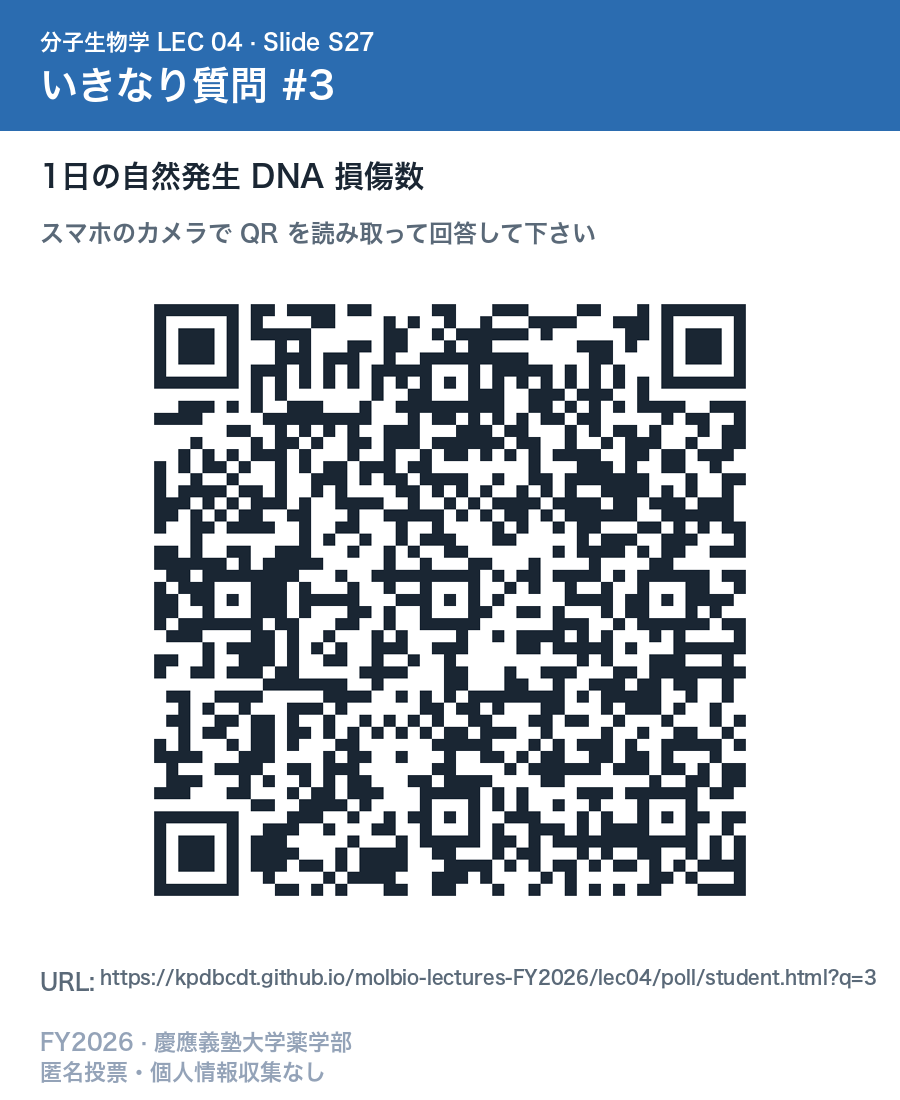
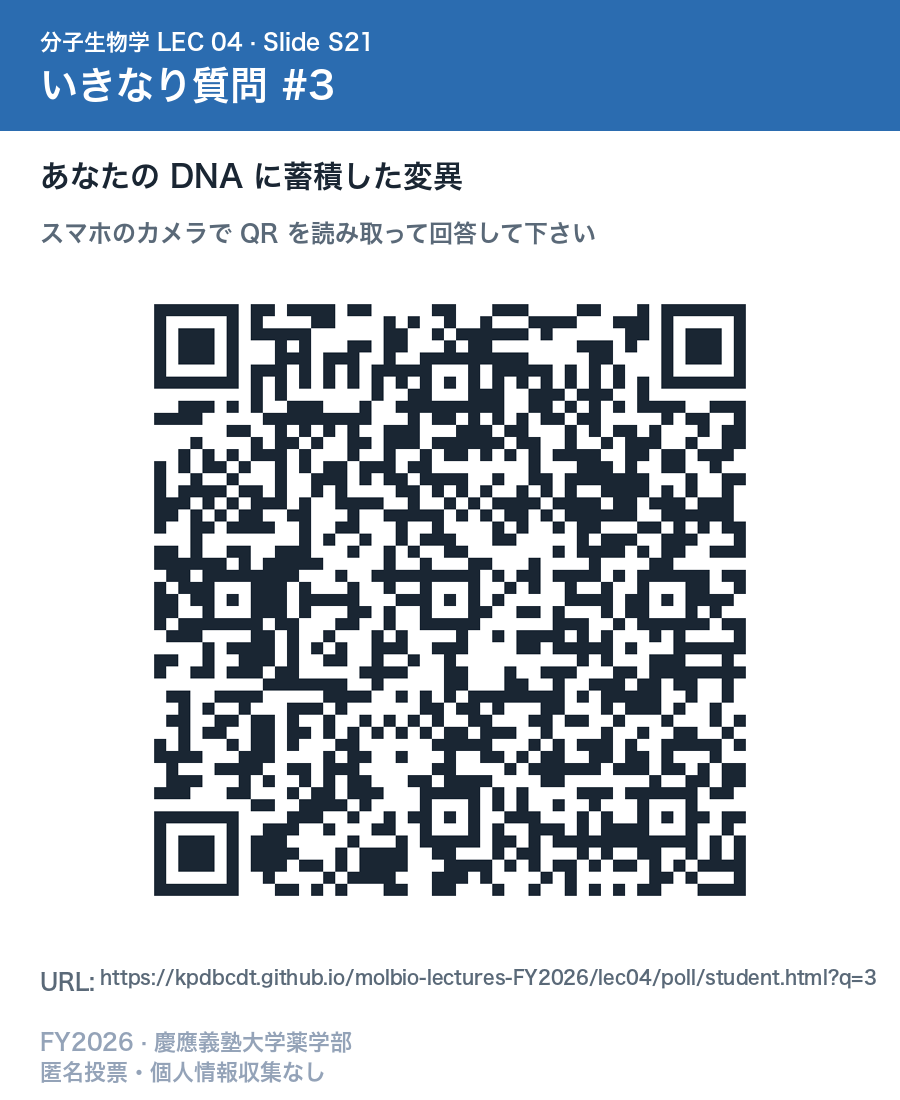
Lec04: add Q#2/Q#3 polls (大腸菌複製時間・de novo 変異) + lec03 typo fix
- poll-data.js: replace q2 (Pol III speed) with new Q#2 at S09 (大腸菌の全
  ゲノム複製時間 ~40 min, multifork replication); replace q3 with new Q#3
  at S21 (あなたの DNA に蓄積した de novo 変異 ~30-100/世代). Sources: CBN
  (Phillips & Milo) p.315-317 and p.342, BNID 107686/105813
- generate_qr.py: update QUESTIONS dict (S04/S09/S21) + new question texts
- regenerated qr_q1/q2/q3_slide.png with new slide numbers and labels
- index.html: fix Lec03→Lec04 typos in certificate hash + localStorage
  keys (lec03_quiz_state → lec04_quiz_state); enable Lec05-08 sidebar nav;
  expose 講師用投票画面 link; show retake card unconditionally

Changed region(s): [[0.0311, 0.1236, 0.5289, 0.1855]]

diff --git a/lec04/index.html b/lec04/index.html
@@ -405,15 +405,16 @@
     <li><a href="../lec02/"><span class="lec-num">Lec 02</span>化学的基盤</a></li>
     <li><a href="../lec03/"><span class="lec-num">Lec 03</span>染色体とゲノム</a></li>
     <li><a href="../lec04/" class="active"><span class="lec-num">Lec 04</span>DNA 複製・修復</a></li>
-    <li><a href="#" class="disabled"><span class="lec-num">Lec 05</span>転写<span class="soon-badge">SOON</span></a></li>
-    <li><a href="#" class="disabled"><span class="lec-num">Lec 06</span>転写調節・RNA プロセシング<span class="soon-badge">SOON</span></a></li>
-    <li><a href="#" class="disabled"><span class="lec-num">Lec 07</span>翻訳と翻訳後修飾<span class="soon-badge">SOON</span></a></li>
-    <li><a href="#" class="disabled"><span class="lec-num">Lec 08</span>組換え DNA とゲノム編集<span class="soon-badge">SOON</span></a></li>
+    <li><a href="../lec05/"><span class="lec-num">Lec 05</span>転写</a></li>
+    <li><a href="../lec06/"><span class="lec-num">Lec 06</span>転写調節・RNA プロセシング</a></li>
+    <li><a href="../lec07/"><span class="lec-num">Lec 07</span>翻訳と翻訳後修飾</a></li>
+    <li><a href="../lec08/"><span class="lec-num">Lec 08</span>組換え DNA とゲノム編集</a></li>
   </ul>
   <h3>Lec04 リソース</h3>
   <ul>
     <li><a href="#" class="disabled"><span class="lec-num">📄</span>講義スライド (PDF)<span class="soon-badge">TBD</span></a></li>
     <li><a href="#" class="disabled"><span class="lec-num">📓</span>NotebookLM<span class="soon-badge">TBD</span></a></li>
+    <li><a href="./poll/instructor.html" target="_blank"><span class="lec-num">🎙</span>講師用投票画面<span class="soon-badge">講師</span></a></li>
   </ul>
 </aside>
 
@@ -452,7 +453,9 @@
     <br>
     📘 <strong>問1-9</strong>: 基本問題 (DNA 複製・修復)<br>
     🏆 <strong>問10-12</strong>: 薬剤師国試改変 (<strong>発展・チャレンジ</strong>)</p>
-  <div class="card retake-only" style="background:#fffaf0; border-color:#e09f3e; border-width:2px; display:none;">
+
+  
+  <div class="card" style="background:#fffaf0; border-color:#e09f3e; border-width:2px;">
     <h3 style="margin-top:0; font-size:16px; color:#744210;">📋 再度試験受験者: 提出手順</h3>
     <ol style="font-size:13px; line-height:1.9; margin:6px 0;">
       <li>下の 12 問を解く (不合格なら「クイズをリセット」で再挑戦)</li>
@@ -724,7 +727,7 @@ function renderQuiz() {
       banner.className = 'challenge-banner';
       banner.innerHTML = `
         <h3>🏆 ここから国試チャレンジ問題 (発展)</h3>
-        <p>以下の問題は<strong>薬剤師国家試験の過去問</strong>を一部改変したものです。染色体異常・スプライシング治療薬・エピジェネティクス治療など、Lec03 の内容と密接に関連する臨床応用トピックです。解説を読んで「染色体・ゲノムの知識がどう医療に生きているか」を体感してください。</p>
+        <p>以下の問題は<strong>薬剤師国家試験の過去問</strong>を一部改変したものです。シスプラチン・5-FU・トポイソメラーゼ阻害薬・MMR 欠損腫瘍に対する免疫チェックポイント阻害薬など、Lec04 (DNA 複製・修復) の内容と密接に関連する臨床応用トピックです。解説を読んで「複製・修復の知識がどう医療に生きているか」を体感してください。</p>
       `;
       list.appendChild(banner);
       challengeBannerShown = true;
@@ -835,7 +838,7 @@ function showFinish() {
 }
 
 async function generateVerificationCode(studentId, score, date) {
-  const data = `${studentId}:lec03:${score}/${QUIZ.length}:${date}:molbio2026`;
+  const data = `${studentId}:lec04:${score}/${QUIZ.length}:${date}:molbio2026`;
   const encoder = new TextEncoder();
   const hashBuffer = await crypto.subtle.digest('SHA-256', encoder.encode(data));
   const hashArray = Array.from(new Uint8Array(hashBuffer));
@@ -843,7 +846,7 @@ async function generateVerificationCode(studentId, score, date) {
 }
 
 function saveQuizState() {
-  try { localStorage.setItem('lec03_quiz_state', JSON.stringify(quizState)); } catch(e) {}
+  try { localStorage.setItem('lec04_quiz_state', JSON.stringify(quizState)); } catch(e) {}
 }
 
 function loadQuizState() {
@@ -852,7 +855,7 @@ function loadQuizState() {
 }
 
 document.getElementById('quiz-reset').addEventListener('click', () => {
-  localStorage.removeItem('lec03_quiz_state');
+  localStorage.removeItem('lec04_quiz_state');
   renderQuiz();
 });
 
@@ -875,7 +878,7 @@ document.getElementById('quiz-pdf').addEventListener('click', async () => {
 <html lang="ja">
 <head>
 <meta charset="UTF-8">
-<title>分子生物学 Lec03 復習クイズ修了証</title>
+<title>分子生物学 Lec04 復習クイズ修了証</title>
 <style>
   @page { size: A4; margin: 18mm 15mm; }
   body { font-family: -apple-system, BlinkMacSystemFont, "Hiragino Sans", "Yu Gothic", sans-serif; color: #1a2633; line-height: 1.6; font-size: 11pt; margin: 0; padding: 0; }
@@ -921,7 +924,7 @@ document.getElementById('quiz-pdf').addEventListener('click', async () => {
 
 <div class="cert-box">
   <div class="cert-title">分子生物学 復習クイズ修了証</div>
-  <div class="cert-sub">Certificate of Completion — 第3回 染色体とゲノム</div>
+  <div class="cert-sub">Certificate of Completion — 第4回 DNA 複製・修復</div>
   <div class="cert-field"><span class="label">学籍番号</span><br><span class="value">${studentId}</span></div>
   <div class="cert-score">${score} / ${total}</div>
   <div class="cert-field"><span class="label">合格基準: ${Math.ceil(total * PASS_THRESHOLD)}問以上</span></div>
@@ -986,35 +989,6 @@ document.getElementById('quiz-pdf').addEventListener('click', async () => {
 });
 
 renderQuiz();
-</script>
-<script>
-(function(){
-  try {
-    var p = new URLSearchParams(location.search);
-    var isRetake = p.get('retake') === '1' ||
-                   (document.referrer && /(?:lms\.keio\.jp\/courses\/)144965/.test(document.referrer));
-    if (!isRetake) return;
-    document.body.classList.add('is-retake');
-    document.querySelectorAll('.retake-only').forEach(function(el){ el.style.display = ''; });
-    document.querySelectorAll('.sidebar a.disabled').forEach(function(a){
-      var label = a.querySelector('.lec-num');
-      var t = label && label.textContent ? label.textContent.trim() : '';
-      var m = t.match(/^Lec\s*0?(\d+)$/);
-      if (!m) return;
-      var n = m[1].padStart(2,'0');
-      a.classList.remove('disabled');
-      a.setAttribute('href', '../lec' + n + '/?retake=1');
-      var soon = a.querySelector('.soon-badge');
-      if (soon) soon.remove();
-    });
-    document.querySelectorAll('.sidebar a[href*="../lec0"]').forEach(function(a){
-      var h = a.getAttribute('href');
-      if (h && !h.includes('retake=1') && !h.startsWith('#')) {
-        a.setAttribute('href', h + (h.includes('?') ? '&' : '?') + 'retake=1');
-      }
-    });
-  } catch (e) { /* no-op */ }
-})();
 </script>
 </body>
 </html>

diff --git a/lec04/poll/poll-data.js b/lec04/poll/poll-data.js
@@ -4,41 +4,41 @@
 export const POLLS = {
   q1: {
     id: 'q1',
-    slide: 'S02',
+    slide: 'S04',
     stem: 'ヒトゲノム32億塩基対を1回の細胞分裂でコピーするとき、最終的なエラー率（変異の頻度）はどのくらいでしょうか？',
     options: [
-      'A) 10\u207B\u00B3（1,000塩基に1個）',
-      'B) 10\u207B\u2075（10万塩基に1個）',
-      'C) 10\u207B\u2077（1,000万塩基に1個）',
-      'D) 10\u207B\u2079〜10\u207B\u00B9\u2070（10億〜100億塩基に1個）',
+      'A) 10⁻³（1,000塩基に1個）',
+      'B) 10⁻⁵（10万塩基に1個）',
+      'C) 10⁻⁷（1,000万塩基に1個）',
+      'D) 10⁻⁹〜10⁻¹⁰（10億〜100億塩基に1個）',
     ],
     correct: 3,
-    reveal: '答え: D) 10\u207B\u2079〜10\u207B\u00B9\u2070。DNA pol \u2162 の塩基選択性だけでは 10\u207B\u2075、3\u2032\u21925\u2032校正活性で 10\u207B\u2077、さらに MMR（ミスマッチ修復）で最終的に 10\u207B\u2079〜10\u207B\u00B9\u2070 に到達。32 億塩基対を写しても1細胞あたりわずか0.3〜3個の変異。「広辞苑1冊を誤字3文字以内で書き写す」レベルの精度です。',
+    reveal: '答え: D) 10⁻⁹〜10⁻¹⁰。DNA pol Ⅲ の塩基選択性だけでは 10⁻⁵、3′→5′校正活性で 10⁻⁷、さらに MMR（ミスマッチ修復）で最終的に 10⁻⁹〜10⁻¹⁰ に到達。32 億塩基対を写しても1細胞あたりわずか0.3〜3個の変異。「広辞苑1冊を誤字3文字以内で書き写す」レベルの精度です。',
   },
   q2: {
     id: 'q2',
-    slide: 'S13',
-    stem: '大腸菌の DNA polymerase \u2162 は1秒あたりどれくらいの速さで DNA を合成できるでしょうか？',
+    slide: 'S09',
+    stem: '大腸菌は全ゲノム（約 4.6 Mb）を 1 回複製するのに何分かかるでしょうか？',
     options: [
-      'A) 約10ヌクレオチド/秒',
-      'B) 約100ヌクレオチド/秒',
-      'C) 約1,000ヌクレオチド/秒',
-      'D) 約100,000ヌクレオチド/秒',
+      'A) 約 5 秒',
+      'B) 約 5 分',
+      'C) 約 40 分',
+      'D) 約 8 時間',
     ],
     correct: 2,
-    reveal: '答え: C) 約1,000ヌクレオチド/秒。大腸菌の全ゲノム約4.6 Mb を約40分で複製できます。\u03B2クランプが Pol \u2162 を DNA に固定することで、解離せず数千〜数万ヌクレオチドを連続合成する「高プロセシビティ」が実現。ヒトの複製フォークは約50〜100 nt/秒と遅く、代わりに数万個の複製起点を並列処理して S 期 6-8 時間で 60 億 bp をコピーしています。',
+    reveal: '答え: C) 約 40 分。計算: 4.6×10⁶ bp ÷ 1,000 nt/秒 ÷ 2（双方向）≈ 約 40 分。ところが大腸菌は栄養豊富時に世代時間 20 分で増殖します。複製に 40 分かかるのに分裂は 20 分ごと——どう成立する? 答えは多重複製フォーク (multifork replication)。1 細胞内に 2〜4 個の oriC が同時稼働して、前の複製が終わる前に次の複製が始まる。これが大腸菌の高速増殖の分子基盤。Cell Biology by the Numbers (Phillips & Milo) p.315-317。',
   },
   q3: {
     id: 'q3',
-    slide: 'S27',
-    stem: 'ヒトの細胞1個では、1日にどれくらいの自然発生的 DNA 損傷（脱プリン）が起こっているでしょうか？',
+    slide: 'S21',
+    stem: 'あなたが両親から受け継いだ DNA には、両親の生殖細胞 DNA と比べて何個の変異があるでしょうか？',
     options: [
-      'A) 約10回',
-      'B) 約500回',
-      'C) 約5,000〜10,000回',
-      'D) 約100万回',
+      'A) 1 個未満',
+      'B) 約 10〜100 個',
+      'C) 約 1,000 個',
+      'D) 約 100,000 個',
     ],
-    correct: 2,
-    reveal: '答え: C) 約5,000〜10,000回。プリン塩基（A, G）の N-グリコシド結合が加水分解で自然に切れ、AP 部位（無塩基部位）ができます。これに加えて脱アミノが100〜500回、酸化損傷（8-oxoG など）が10,000〜100,000回／日。今この瞬間も、あなたの各細胞で毎日数万〜数十万カ所の DNA 損傷が発生し、BER/NER/MMR が黙々と修復しています。修復破綻が XP やリンチ症候群などのがん素因疾患につながる。',
+    correct: 1,
+    reveal: '答え: B) 約 30〜100 個（de novo 変異）。計算: 10⁻⁸ /bp/世代 × 3×10⁹ bp ≈ 30 個（一倍体）、両親 2 人合算で約 60〜100 個。これが「あなただけ」の遺伝情報——進化の素材です。約 70% は父親由来（精原細胞は思春期以降も分裂継続するため）→ 父親の年齢が高いほど子の de novo 変異が増える。これが高齢出産による自閉症・統合失調症リスク上昇の分子基盤の一つ。腫瘍抑制遺伝子に当たれば小児がん（網膜芽細胞腫など）の原因にも。Cell Biology by the Numbers (Phillips & Milo) p.342、BNID 105813。',
   },
 };

diff --git a/lec04/poll/generate_qr.py b/lec04/poll/generate_qr.py
@@ -13,9 +13,9 @@ BASE_URL = "https://kpdbcdt.github.io/molbio-lectures-FY2026/lec04/poll/student.
 OUT_DIR = os.path.dirname(os.path.abspath(__file__))
 
 QUESTIONS = {
-    1: ("S02", "ヒトゲノム複製のエラー率"),
-    2: ("S13", "DNA pol III の合成速度"),
-    3: ("S27", "1日の自然発生 DNA 損傷数"),
+    1: ("S04", "ヒトゲノム複製のエラー率"),
+    2: ("S09", "大腸菌の全ゲノム複製時間"),
+    3: ("S21", "あなたの DNA に蓄積した変異"),
 }
 
 
